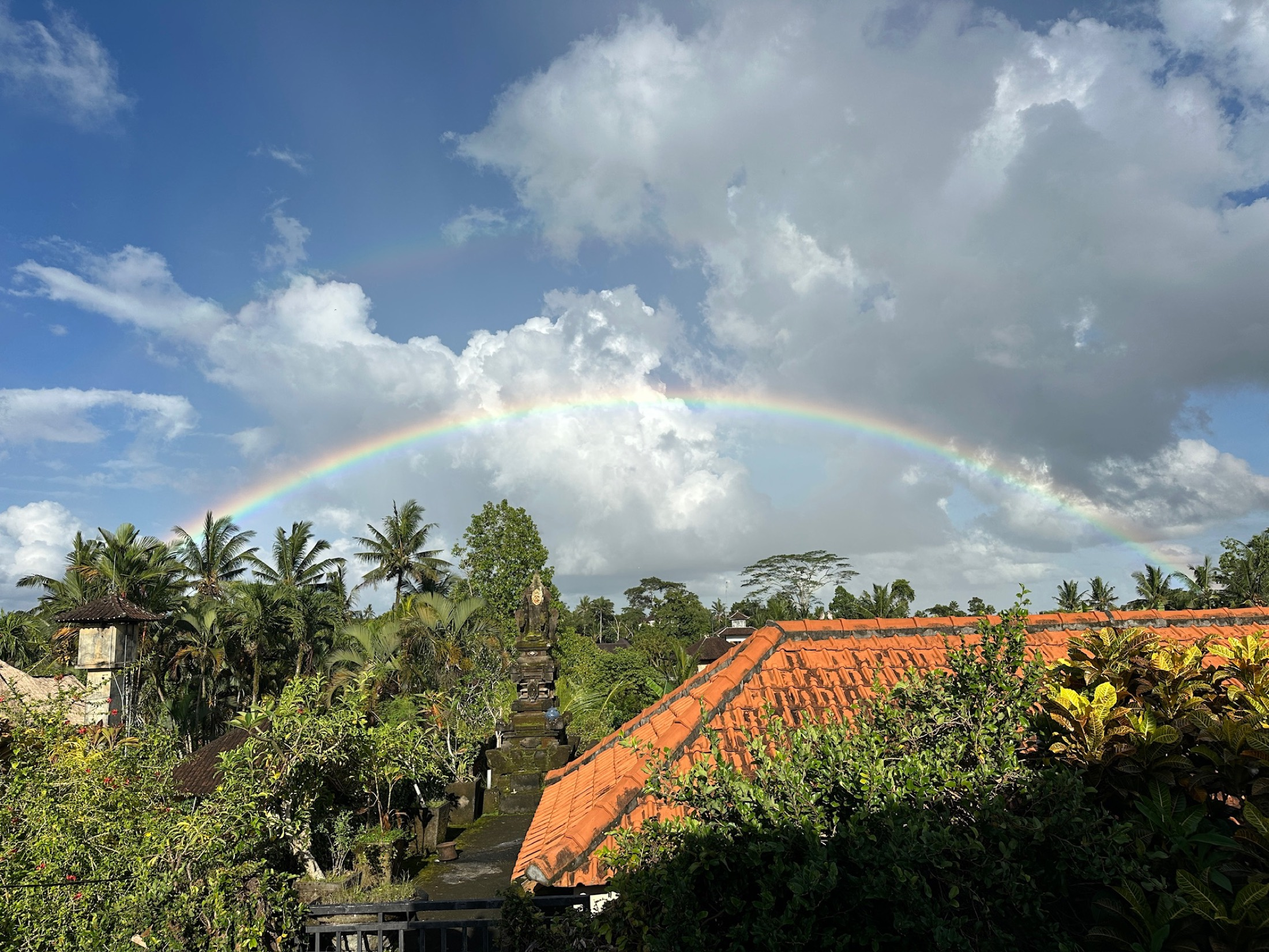
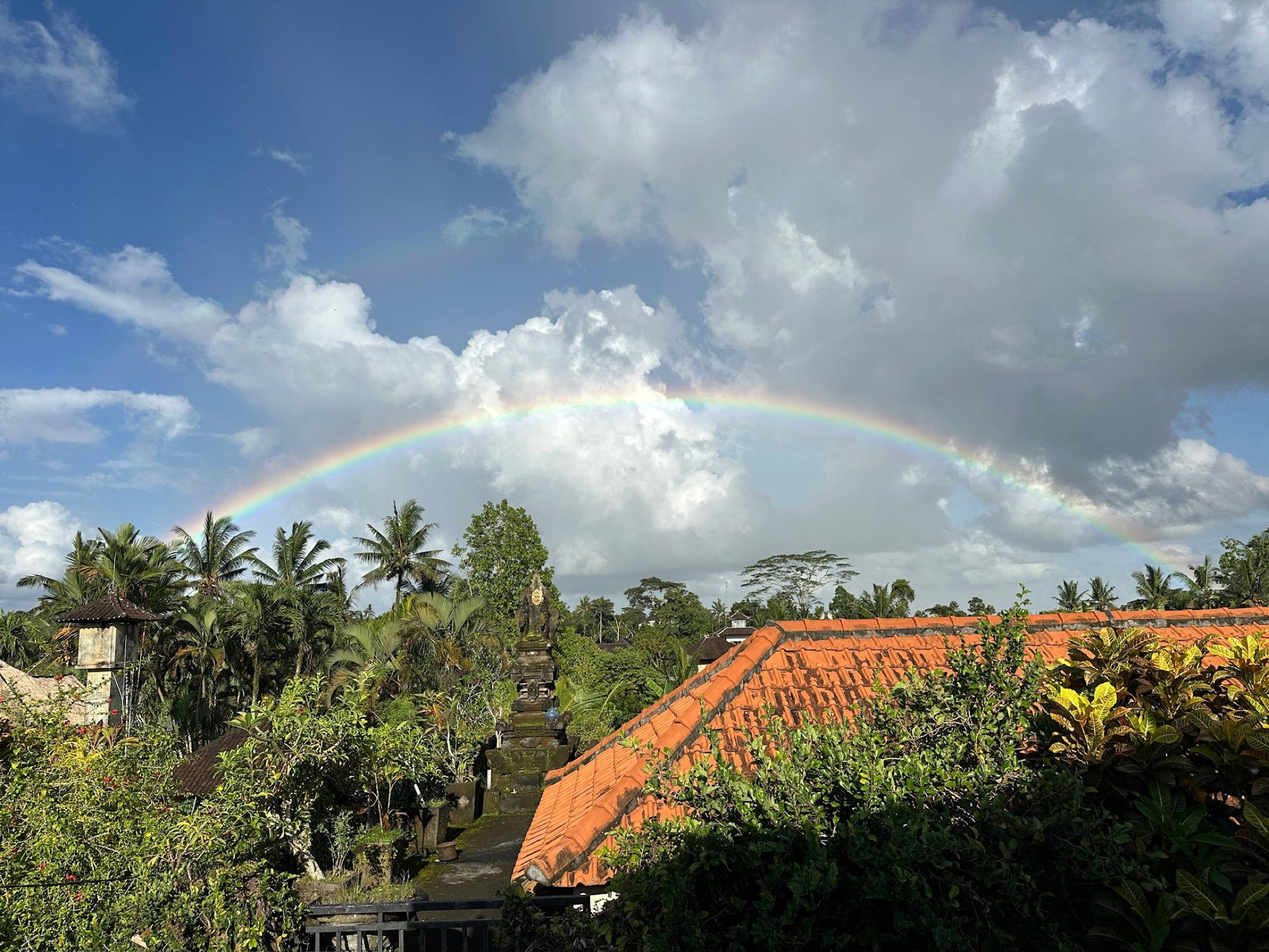
Commit the responsive WebP variants the hero srcset points at
figure.liquid emits a <picture> with a WebP srcset whenever
imagemagick.enabled is true, and relies on jekyll-imagemagick to produce
those files during the build. On the GitHub Actions runner that plugin
silently produces nothing, so every srcset URL 404d. A <picture> does not
fall back to its <img> when the source it has already selected fails to
load, so the hero would have rendered as a broken image on any browser
that supports WebP - which is all of them - while the build stayed green.

scripts/photos.py now generates the variants with Pillow and they are
committed, so the site no longer depends on a plugin that does not run.
Widths are read from _config.yml so the two cannot drift, and variants
wider than the source are skipped rather than upscaled.

Also recompresses the hero fallback from 960 KB to 496 KB, since it is the
<img src> and gets fetched by anything that ignores the srcset.

diff --git a/scripts/photos.py b/scripts/photos.py
@@ -1,0 +1,72 @@
+"""
+Build responsive WebP variants for photographs in assets/img/.
+
+Why this exists: the theme's `figure.liquid` emits a <picture> with a WebP
+srcset whenever `imagemagick.enabled` is true, and relies on the
+jekyll-imagemagick plugin to produce those files at build time. On the GitHub
+Actions runner that plugin silently produces nothing, so the srcset points at
+files that 404 — and a <picture> does *not* fall back to its <img> when the
+source it selected fails to load. The result is a broken image with a green
+build.
+
+So the variants are generated here and committed instead. The widths are read
+from _config.yml, so the two stay in step.
+
+SVG artwork is untouched — it needs no variants.
+
+Run:  python3 scripts/photos.py
+Out:  assets/img/<name>-<width>.webp for each photo
+"""
+
+import pathlib
+import re
+import sys
+
+from PIL import Image
+
+ROOT = pathlib.Path(__file__).resolve().parent.parent
+IMG = ROOT / "assets" / "img"
+QUALITY = 80
+SOURCE_SUFFIXES = {".jpg", ".jpeg", ".png", ".tiff"}
+
+
+def configured_widths():
+    """Read imagemagick.widths from _config.yml without a YAML dependency."""
+    text = (ROOT / "_config.yml").read_text()
+    block = re.search(r"imagemagick:.*?widths:\n((?:\s*-\s*\d+\n)+)", text, re.S)
+    if not block:
+        sys.exit("Could not find imagemagick.widths in _config.yml")
+    return [int(n) for n in re.findall(r"-\s*(\d+)", block.group(1))]
+
+
+def main():
+    widths = configured_widths()
+    print("widths from _config.yml:", widths)
+
+    photos = [
+        p
+        for p in sorted(IMG.rglob("*"))
+        if p.suffix.lower() in SOURCE_SUFFIXES and "-" not in p.stem
+    ]
+    if not photos:
+        print("no source photographs found")
+        return
+
+    for photo in photos:
+        with Image.open(photo) as im:
+            im = im.convert("RGB")
+            for w in widths:
+                if w > im.width:
+                    # Never upscale: a variant wider than the source is just a
+                    # bigger file with no more detail in it.
+                    continue
+                h = round(im.height * w / im.width)
+                out = photo.with_name(f"{photo.stem}-{w}.webp")
+                im.resize((w, h), Image.LANCZOS).save(
+                    out, "WEBP", quality=QUALITY, method=6
+                )
+                print(f"  {out.relative_to(ROOT)}  {out.stat().st_size // 1024} KB")
+
+
+if __name__ == "__main__":
+    main()
